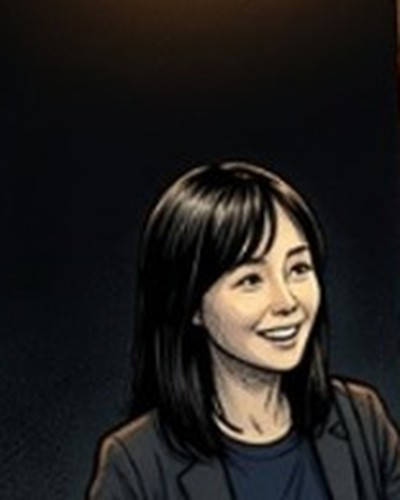
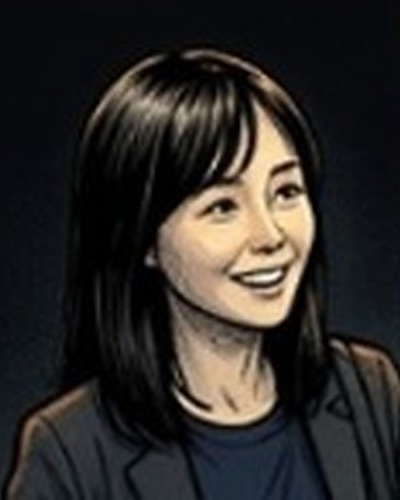
cast: tighten headroom on Dr. Lee portrait
Claude-Session: https://claude.ai/code/session_018twa3QMQYz3PY4RAJxVLUb

diff --git a/ep05u/index.html b/ep05u/index.html
@@ -269,7 +269,7 @@ html.mo .snd{animation:mo-fade 1s ease-out 1.2s backwards}
     <p>선배가 떠넘긴 책임을 진 막내 연구원이, 들키면 다음 번호가 될 걸 알면서 수술실 영상을 연구소 밖으로 빼내려 한다.</p>
   </header>
 <script>(function(){var s=document.currentScript.previousElementSibling;s.querySelectorAll(".ep-t button").forEach(function(b){b.onclick=function(){s.querySelectorAll(".ep-t button").forEach(function(x){x.setAttribute("aria-selected",x===b?"true":"false")});s.querySelectorAll(".ep-p").forEach(function(p){p.hidden=p.getAttribute("data-p")!==b.getAttribute("data-t")})}})})();</script>
-<section class="cast" aria-label="출연"><h2>출연</h2><ul><li><img src="../chars/drkim.jpg" alt=""><span><b>김박사</b><small>실험실 안의 내부자. 그날 밤 USB 하나를 들고 나왔다.</small></span></li><li><img src="../chars/dr_park.jpg" alt=""><span><b>박 박사</b><small>나사로 프로젝트 교육을 맡은 연구소 박사. 늘 따뜻하게 웃는다.</small></span></li><li><img src="../chars/dr_lee.jpg" alt=""><span><b>이박사</b><small>위에서 내려온 박사. 뒤에서는 낙하산이라 불린다.</small></span></li></ul></section>
+<section class="cast" aria-label="출연"><h2>출연</h2><ul><li><img src="../chars/drkim.jpg" alt=""><span><b>김박사</b><small>실험실 안의 내부자. 그날 밤 USB 하나를 들고 나왔다.</small></span></li><li><img src="../chars/dr_park.jpg" alt=""><span><b>박 박사</b><small>나사로 프로젝트 교육을 맡은 연구소 박사. 늘 따뜻하게 웃는다.</small></span></li><li><img src="../chars/dr_lee.jpg?v=2" alt=""><span><b>이박사</b><small>위에서 내려온 박사. 뒤에서는 낙하산이라 불린다.</small></span></li></ul></section>
   <div class="gap" style="height:clamp(140px,26vw,220px)">249번 실험 종료 3시간 뒤</div>
   <div class="p"><img src="u01.jpg" alt="아무도 없는 통제실, 같은 수술대를 비추는 모니터 두 대"><div class="cap" style="left:3%;top:5%"><button type="button" class="gl" data-g="4" aria-label="골디락스 뜻 보기">골디락스</button> 연구소 · 통제실</div></div>
   <div class="p"><video src="u01a.mp4" poster="u01a.jpg" autoplay muted loop playsinline preload="metadata" aria-label="통제실 콘솔 클로즈업, 0으로 돌려진 스피커 다이얼 옆에서 여전히 켜져 있는 빨간 녹화 불"></video><div class="cap" style="left:3%;top:5%">스피커는 꺼져 있었다.<br>녹음은 꺼지지 않았다.</div></div>
